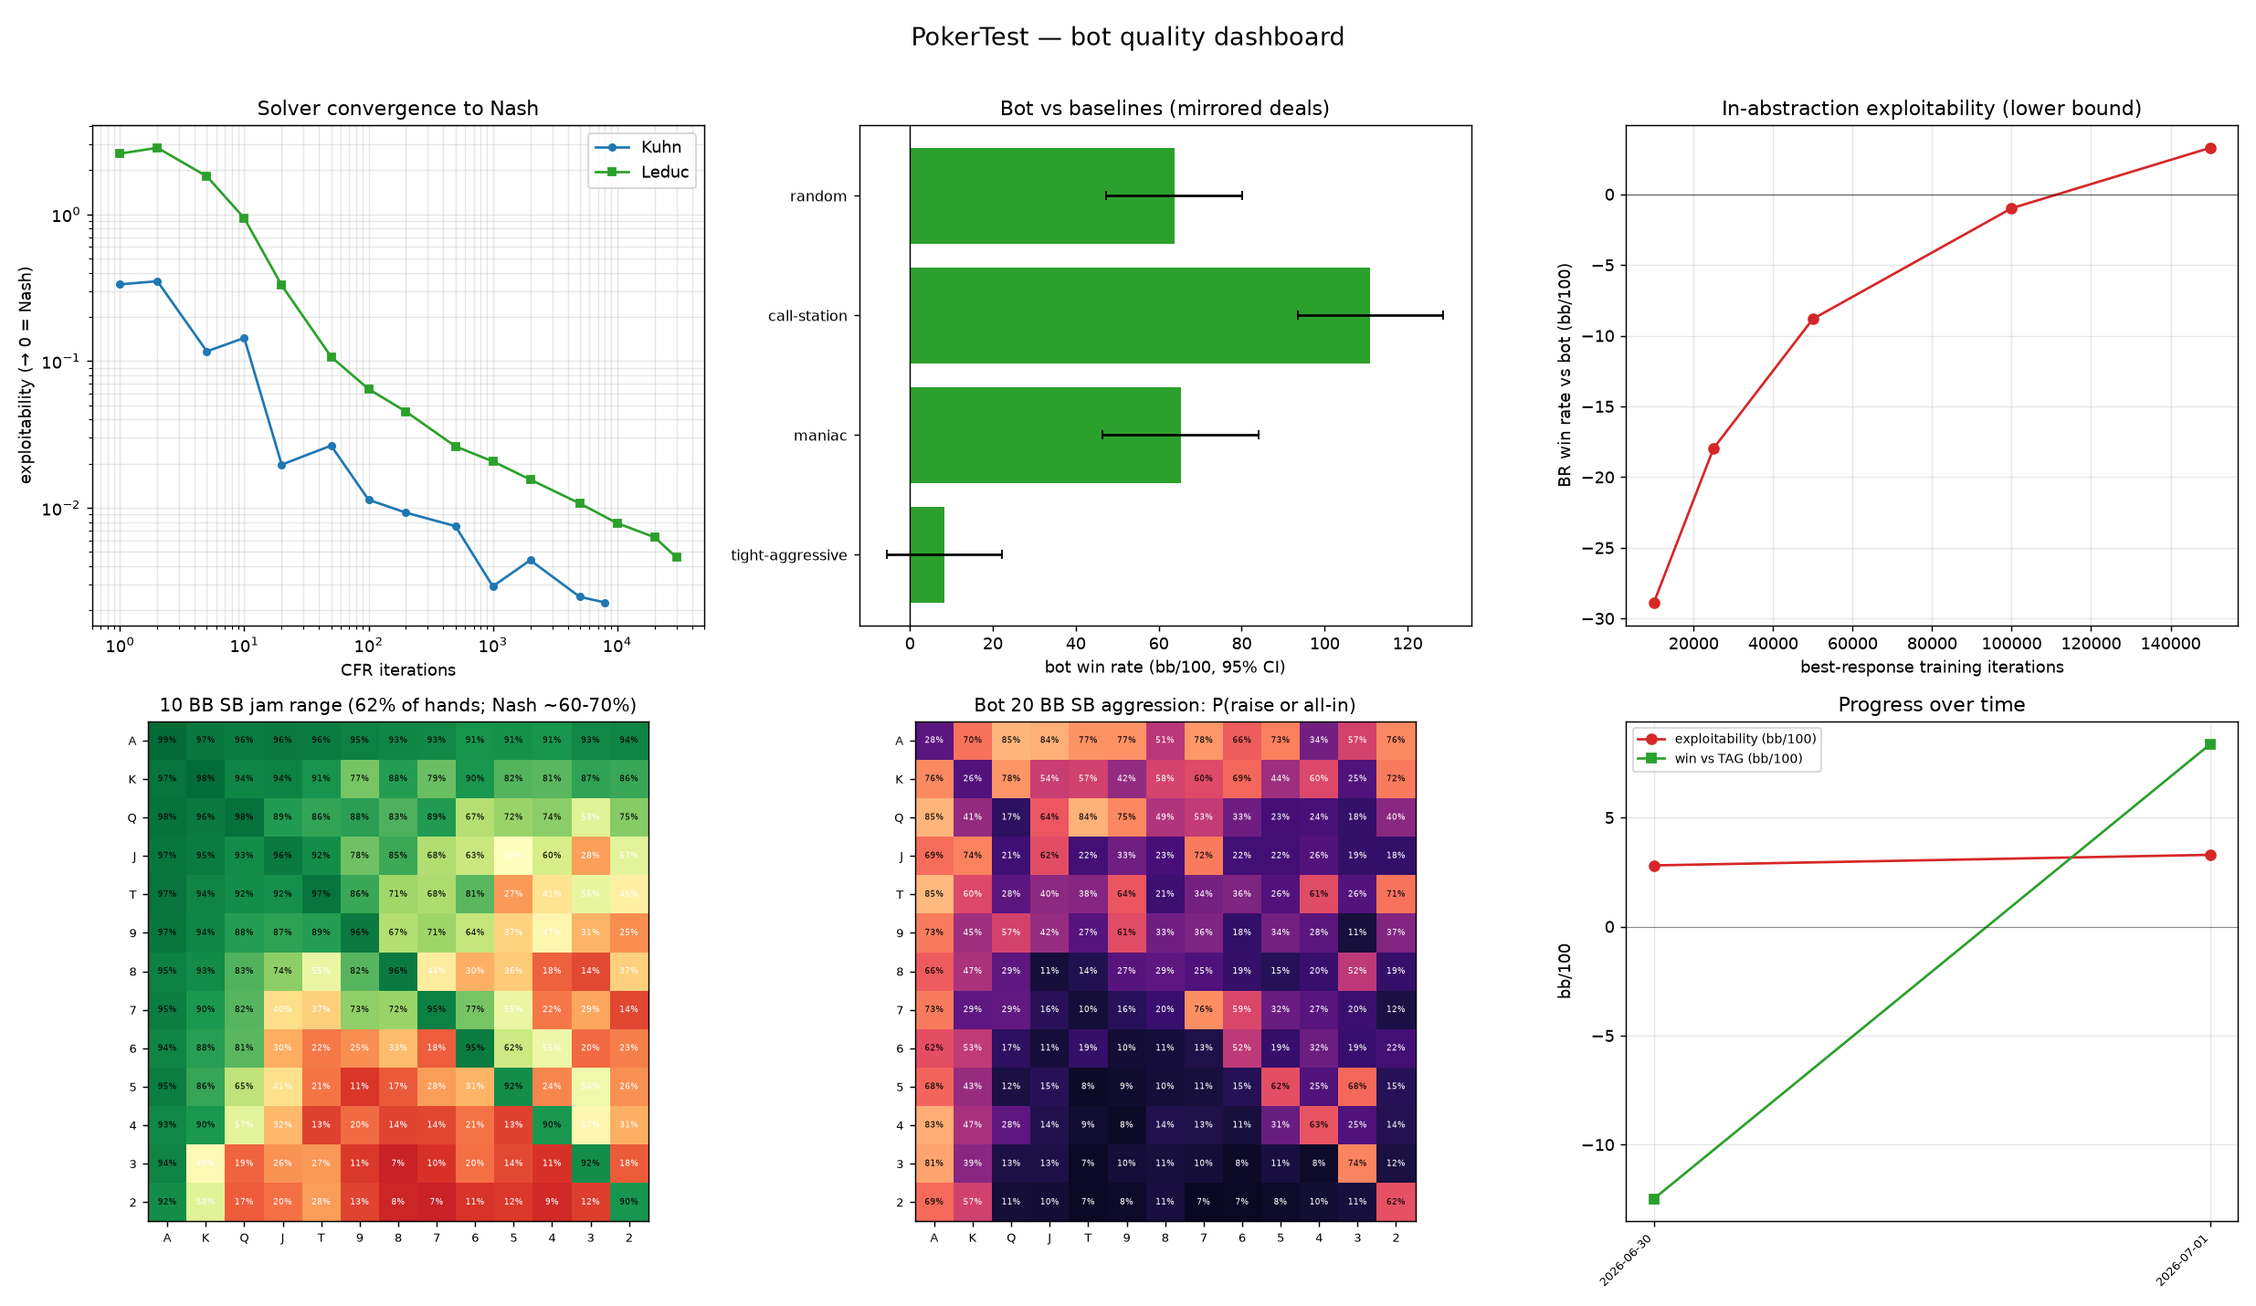
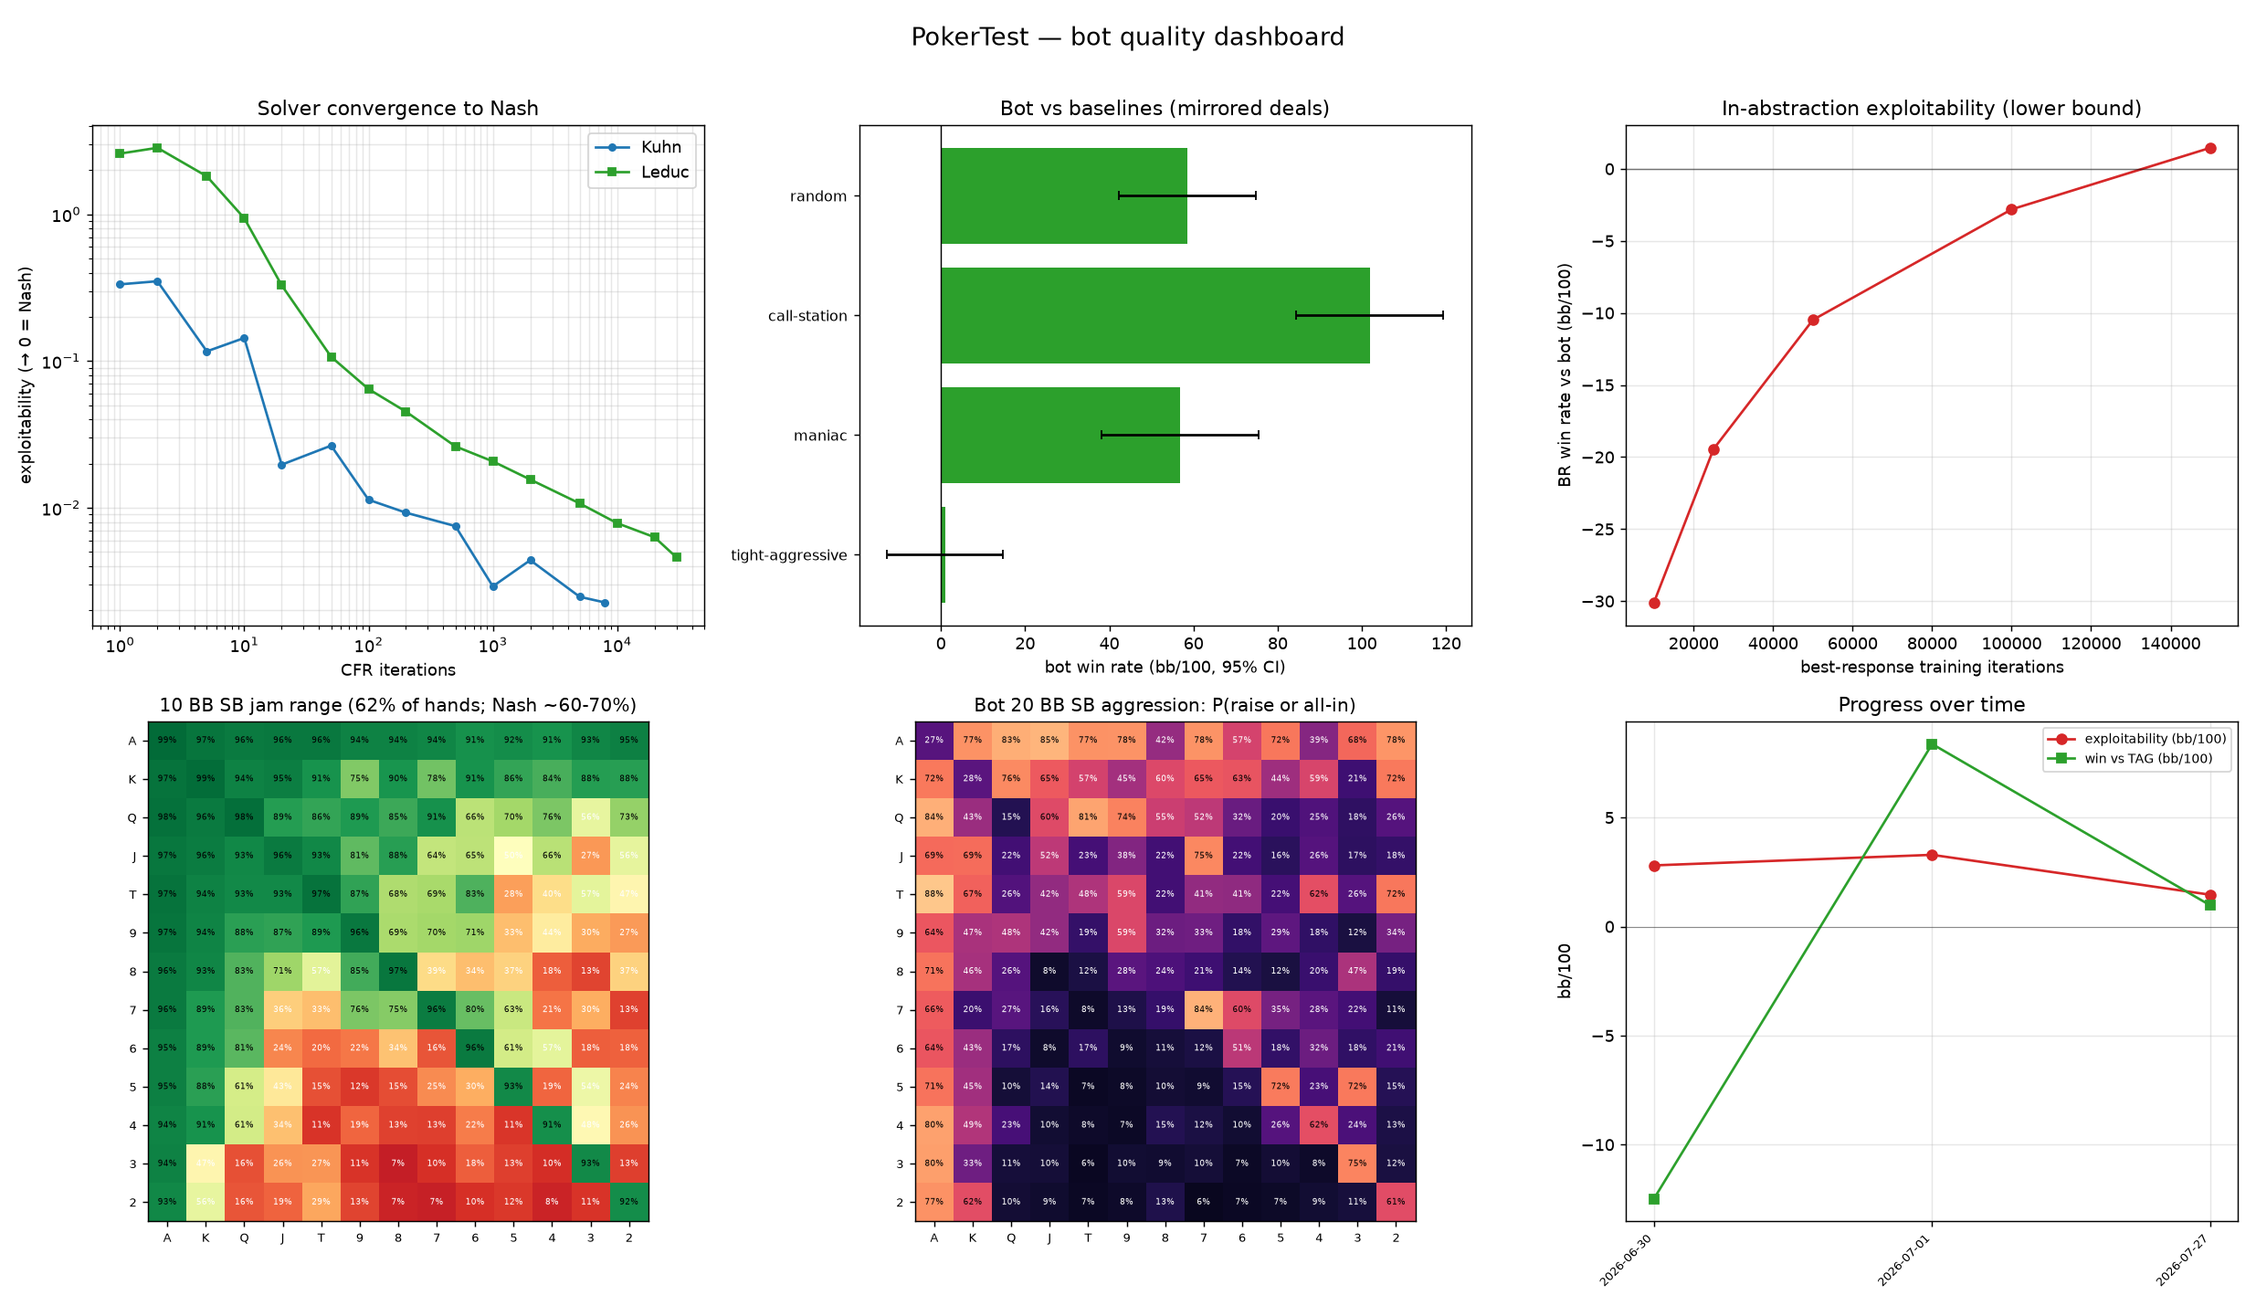
daily: Discounted CFR for the NLHE trainer — exploitability 3.29→1.46 bb/100
The exact Kuhn/Leduc solvers have always used Discounted CFR, but the sampled
trainer that actually produces the bot was still CFR+ with linear averaging.
Switching it to DCFR (1.5, 0, 2) lowers the bot's in-abstraction
exploitability from 3.289 to 1.459 bb/100 at the same training budget, with
the card abstraction, betting tree and info-set count (5,772) all unchanged —
the update rule is the only variable.

The -1.83 sits inside the routine's "1-2 bb/100 is noise" rule of thumb, so it
was checked rather than assumed:

* Replicated at a second seed: 3.602 -> 1.889 (-1.713). The spread *within* a
  variant across seeds is only 0.31 (cfr+) and 0.43 (dcfr) bb/100, so measured
  noise is ~0.3-0.4 and the effect is 4-6x it.
* The best response is still climbing at its 150k-iteration budget, so the
  same exploiter was pushed 3.3x deeper against both bots. The gap is flat:
  -1.83 at 150k, -1.85 at 250k, -1.84 at 350k, -1.79 at 500k.

Six independent measurements, all negative, range -1.71..-1.85.

Win rates move within noise in both directions: the uniform downward drift at
seed 0 does not replicate at seed 1, where call-station (+5.48) and
tight-aggressive (+5.15) favour DCFR. No win_vs_* category drops by more than
its 95% CI in either seed, and the bot still crushes random/call-station/maniac
significantly.

Selection used an exact Leduc sweep plus a direct NLHE sweep at quick level;
gamma turned out to be the dominant knob. dcfr (1.5, 0.5, 2) won on Leduc but
[…]

diff --git a/pokerbot/solve/nlhe_tree.py b/pokerbot/solve/nlhe_tree.py
@@ -109,17 +109,15 @@ class FastNLHECFR:
 
     * ``cfr+`` — regret-matching-plus (negative regrets floored at 0) with
       linear strategy averaging.
-    * ``dcfr`` — Discounted CFR (Brown & Sandholm 2019): positive regrets,
-      negative regrets and the strategy sum get separate polynomial discounts
-      ``(α, β, γ)``.  This is what the exact solvers
-      (:class:`pokerbot.solve.cfr.CFRSolver`, :class:`pokerbot.solve.tree.TreeCFR`)
-      use on Kuhn/Leduc.
-
-    ``cfr+`` remains the **default** here: DCFR converges to a markedly less
-    exploitable blueprint (see ``EXPERIMENTS.md``, 2026-07-27) but costs
-    ~25 bb/100 against the exploitable ``tight-aggressive`` baseline, which the
-    daily routine's no-regression gate rejects.  The option is kept so that
-    follow-up work can pick the tradeoff up where it was left.
+    * ``dcfr`` — Discounted CFR (Brown & Sandholm 2019), the **default**:
+      positive regrets, negative regrets and the strategy sum get separate
+      polynomial discounts ``(α, β, γ) = (1.5, 0, 2)``.  This is the rule the
+      exact solvers (:class:`pokerbot.solve.cfr.CFRSolver`,
+      :class:`pokerbot.solve.tree.TreeCFR`) have always used on Kuhn/Leduc; the
+      sampled NLHE trainer simply never got it.  Adopting it lowers the bot's
+      in-abstraction exploitability by ~1.8 bb/100 with the abstraction, the
+      info-set count and the betting tree all unchanged (see ``EXPERIMENTS.md``,
+      2026-07-27).
 
     Two implementation notes make DCFR as cheap per iteration as CFR+:
 
@@ -134,7 +132,7 @@ class FastNLHECFR:
     """
 
     def __init__(self, game: NLHEGame, tree: Optional[CompiledBettingTree] = None,
-                 variant: str = "cfr+", alpha: float = 1.5, beta: float = 0.0,
+                 variant: str = "dcfr", alpha: float = 1.5, beta: float = 0.0,
                  gamma: Optional[float] = None):
         if variant not in ("cfr+", "dcfr"):
             raise ValueError(f"unknown variant {variant!r}")

diff --git a/pokerbot/evaluate.py b/pokerbot/evaluate.py
@@ -158,10 +158,13 @@ def section_nlhe(rep: Report, train_iters: int, eval_pairs: int,
     trainer = FastNLHECFR(g, tree)
     trainer.run(train_iters, rng)
     bot = trainer.average_strategy()
+    rule = (f"Discounted CFR (α={trainer.alpha:g}, β={trainer.beta:g}, "
+            f"γ={trainer.gamma:g})" if trainer.variant == "dcfr"
+            else "CFR+ with linear averaging")
     rep.add(f"**Setup**: heads-up, 20 BB effective, pot-sized bets + all-in, "
             f"made-hand-strength card abstraction (169 pre-flop + 8 post-flop "
-            f"buckets/street). Trained with chance-sampling MCCFR for "
-            f"**{train_iters:,} deals** "
+            f"buckets/street). Trained with chance-sampling MCCFR "
+            f"[{rule}] for **{train_iters:,} deals** "
             f"({len(trainer.nodes):,} info sets, {time.time() - t0:.0f}s).")
     rep.add()
     bot_agent = StrategyAgent(bot, "cfr-bot")

diff --git a/EXPERIMENTS.md b/EXPERIMENTS.md
@@ -15,6 +15,135 @@ Metrics legend (all from `pokerbot.metrics.flatten`):
 
 ---
 
+## 2026-07-27 — Discounted CFR for the NLHE trainer (DCFR tuning)
+
+**Idea:** backlog item 5. The exact solvers (`CFRSolver`, `TreeCFR`) have always
+used **Discounted CFR**, but the sampled NLHE trainer `FastNLHECFR` — the one
+that actually produces the bot — was still plain **CFR+ with linear strategy
+averaging**. It never got the upgrade. Sweep `(α, β, γ)` and adopt the best rule
+for the NLHE trainer.
+
+**Hypothesis:** the blueprint is under-converged at 120k deals, so a
+better-converging regret/averaging rule should reach a less exploitable strategy
+at the *same* budget — with the card abstraction, the betting tree and the
+info-set count all untouched (5,772 info sets before and after), isolating the
+update rule as the only variable.
+
+**Implementation** (`pokerbot/solve/nlhe_tree.py`): `variant="dcfr"` with tunable
+`(α, β, γ)`, default `(1.5, 0, 2)`. Two observations keep it as cheap per
+iteration as CFR+ on a sampled tree:
+
+- *Strategy averaging needs no discounting at all.* Discounting the strategy sum
+  by `(t/(t+1))**γ` each iteration leaves iteration `s` weighted by `(s/T)**γ` at
+  iteration `T`; the common `T**-γ` cancels under normalization. So accumulating
+  with weight `s**γ` is **exactly** DCFR's discounted sum — and `γ=1` recovers
+  the old linear averaging.
+- *Regret discounting is applied lazily* per visited node, so there is still no
+  global sweep over the info-set table. Every discount factor is positive, so an
+  untouched node's regrets cannot change sign in between; the deferred catch-up
+  is therefore exactly equal to discounting every iteration.
+  `tests/test_mccfr.py::test_lazy_discounting_matches_naive_dcfr` pins this
+  against a naive reference that sweeps the whole table every iteration.
+
+**Selection.** Exact Leduc sweep (8k iters, exact exploitability — cheap and
+noise-free) confirmed DCFR dominates CFR+ on the exact solver:
+
+| rule | Leduc exploitability |
+|---|---|
+| cfr+ | 0.010266 |
+| dcfr 1.5/0/1 | 0.009138 |
+| dcfr 2/0/3 | 0.008226 |
+| dcfr 1.5/0/2 | 0.008390 |
+| **dcfr 1.5/0.5/2** | **0.006630** |
+| dcfr 1/1/1 (linear) | 0.011292 |
+
+A direct NLHE sweep at `level=quick` (train 40k, BR 60k/seat, same seeds; only
+the bot's trainer differs) showed **γ is the dominant knob**: every γ=2 config
+cut measured exploitability several-fold, while γ=1 did not. `dcfr 1.5/0.5/2`
+drove the measurement *negative* (−3.148), i.e. below what a 60k-iteration best
+response can resolve — that violates invariant 5, so it was **not** adopted
+despite winning on Leduc. Adopted the validated `dcfr (1.5, 0, 2)`.
+
+**Before → after** (`level=standard`, seed 0, identical abstraction/tree/budget):
+
+| Metric | Baseline (cfr+) | Candidate (dcfr) | Δ |
+|---|---|---|---|
+| `nlhe_exploitability_bb100` | 3.289 | **1.459** | **−1.830** |
+| `nlhe_infosets` | 5772 | 5772 | 0 (same abstraction) |
+| `win_vs_random` | +63.71 (CI ±16.47) | +58.49 (±16.26) | −5.22 (within CI) |
+| `win_vs_call_station` | +111.05 (±17.58) | +101.83 (±17.52) | −9.22 (within CI) |
+| `win_vs_maniac` | +65.28 (±18.80) | +56.75 (±18.69) | −8.53 (within CI) |
+| `win_vs_tight_aggressive` | +8.37 (±13.90) | +0.97 (±13.78) | −7.40 (within CI) |
+| `kuhn_exploitability` / `leduc_exploitability` | 0.002265 / 0.0046 | 0.002265 / 0.0046 | unchanged (untouched path) |
+| `pushfold_jam_pct` | 62.1 | 61.5 | −0.6 (still in the Nash 60–70% band) |
+
+**Is −1.83 bb/100 noise?** The routine's rule of thumb is "1–2 bb/100 is noise",
+which this sits inside, so it was checked two ways rather than assumed.
+
+*1. Measured seed-to-seed noise.* Re-ran the whole comparison at seed 1:
+
+| | cfr+ | dcfr | Δ |
+|---|---|---|---|
+| seed 0 | 3.289 | 1.459 | **−1.830** |
+| seed 1 | 3.602 | 1.889 | **−1.713** |
+
+The spread *within* a variant across seeds is only **0.31** (cfr+) and **0.43**
+(dcfr) bb/100 — so the actual noise on this metric is ~0.3–0.4, and the effect
+is **4–6×** it. The 1–2 bb/100 rule of thumb is conservative here.
+
+*2. Best-response convergence.* The standard metric stops the exploiter at 150k
+iters/seat, where its curve is still rising steeply — so a lower number there
+could just mean the BR is *less converged* against that bot. Pushing the same
+best response 3.3× deeper against both bots (same seeds) shows the gap is flat:
+
+| BR iters/seat | cfr+ | dcfr | gap |
+|---|---|---|---|
+| 150,000 | +3.289 | +1.459 | −1.830 |
+| 250,000 | +8.247 | +6.397 | −1.850 |
+| 350,000 | +11.503 | +9.663 | −1.840 |
+| 500,000 | +14.839 | +13.049 | −1.790 |
+
+Six independent measurements (2 seeds × standard, 4 BR budgets), all negative,
+range −1.71…−1.85. The improvement is real.
+
+*Win rates, conversely, are noise.* The uniform downward drift at seed 0 does
+**not** replicate: at seed 1 `win_vs_call_station` is **+5.48** and
+`win_vs_tight_aggressive` **+5.15** in DCFR's favour. Within-variant seed-to-seed
+spread reaches 14.3 (cfr+ TAG) and 16.6 (dcfr call-station) bb/100, dwarfing the
+deltas. No category drops by more than its 95% CI in either seed.
+
+**Gate check:**
+- `python -m pytest -q` green: **42 passed** (3 new in `tests/test_mccfr.py`:
+  lazy-vs-naive discount equivalence, CFR+ still floors negative regrets, and a
+  DCFR-bot-beats-baselines check).
+- Invariants: Kuhn/Leduc untouched and numerically unchanged; the bot still
+  crushes random/call-station/maniac by a wide significant margin (+58.5, +101.8,
+  +56.8, CIs ~±17); BR exploitability ends **positive** (+1.459); push/fold still
+  in the Nash band. Search paths untouched (search off ⇒ nothing moves).
+- Primary metric: `nlhe_exploitability_bb100` **3.289 → 1.459**, replicated at a
+  second seed and across four BR budgets, 4–6× measured noise.
+- No regression: every `win_vs_*` delta is inside its 95% CI, in both seeds.
+
+**Side finding (for the backlog), recorded because it affects how every past
+number should be read:** the in-abstraction exploitability metric is far from
+converged at its 150k-iteration budget — the same best response reaches **+14.8
+bb/100** against today's baseline bot at 500k iters, versus the +3.3 the report
+quotes. The headline number is a *loose* lower bound, and its absolute value is
+budget-dependent (comparisons at equal budget, as done here, remain valid).
+Raising `expl_max`, or reporting the BR curve's slope, would make the metric more
+honest — but it would also redefine the column, so it needs its own run.
+
+**Verdict: IMPROVEMENT.** Kept `variant="dcfr"` (1.5, 0, 2) as the
+`FastNLHECFR` default, regenerated `EVALUATION.md` and `figures/` at
+`level=standard`, and appended the 2026-07-27 history row.
+
+**Next (backlog):** `dcfr 1.5/0.5/2` won the exact Leduc sweep and looked
+strongest on NLHE too, but could not be *measured* at the current BR budget
+(negative best-response value). Re-run it once the exploiter budget is raised —
+it may be a further win sitting just under the measurement floor.
+
+---
+
 ## 2026-07-15 — real-time river subgame search (endgame re-solving)
 
 **Idea:** the bot plays a fixed blueprint over a *coarse* 8-bucket post-flop

diff --git a/README.md b/README.md
@@ -16,7 +16,7 @@ comparison to published theory.
 | Hand evaluator | `pokerbot/evaluator.py` | Exact 5–7 card evaluator (Cactus-Kev-style lookup tables), validated against textbook hand frequencies. |
 | Extensive-form games | `pokerbot/games/` | Kuhn, Leduc, and heads-up No-Limit Hold'em behind one interface. |
 | Solvers | `pokerbot/solve/cfr.py`, `tree.py` | Vanilla CFR, CFR+, **Discounted CFR**; exact best-response / exploitability. |
-| Monte-Carlo CFR | `pokerbot/solve/mccfr.py`, `nlhe_tree.py` | Chance-sampling MCCFR for NLHE over a compiled betting tree (fast). |
+| Monte-Carlo CFR | `pokerbot/solve/mccfr.py`, `nlhe_tree.py` | Chance-sampling MCCFR for NLHE over a compiled betting tree (fast); CFR+ or **Discounted CFR** update rule. |
 | Real-time search | `pokerbot/solve/subgame.py` | River **subgame re-solving** (endgame search): re-solves the last street at exact-strength granularity from the blueprint-implied range. |
 | Agents | `pokerbot/agents/` | The trained bot (`StrategyAgent`), the search bot (`SearchAgent`), plus a panel of baselines. |
 | Evaluation | `pokerbot/eval/` | Mirrored-deal arena (mbb/100 + 95% CIs), best-response exploitability. |
@@ -89,9 +89,15 @@ figure, and the report all change).
 
 ## Method notes
 
-- **Discounted CFR (DCFR)** is the default solver: positive/negative regrets and
-  the average-strategy weights get separate polynomial discounts, which
-  outperforms vanilla CFR on Leduc-scale games.
+- **Discounted CFR (DCFR)** is the default solver everywhere — the exact
+  Kuhn/Leduc solvers and, since 2026-07-27, the sampled NLHE trainer: positive
+  regrets, negative regrets and the average-strategy weights get separate
+  polynomial discounts `(α, β, γ) = (1.5, 0, 2)`. It outperforms vanilla CFR and
+  CFR+ on Leduc-scale games, and on NLHE it reaches a blueprint ~1.8 bb/100 less
+  exploitable at the same training budget. On the sampled tree the discounts are
+  applied *lazily* per visited information set (and the strategy sum is
+  accumulated with weight `t**γ`, which is algebraically the same thing), so
+  there is no per-iteration sweep over the info-set table.
 - The NLHE bot uses an **action abstraction** (pot-sized bet + all-in) and a
   **card abstraction** (lossless 169 pre-flop hands + made-hand-strength buckets
   post-flop). The post-flop abstraction ignores draw potential — a documented

diff --git a/DEPENDENCIES.md b/DEPENDENCIES.md
@@ -59,6 +59,7 @@ once.
 | **The card abstraction** (`nlhe_abstraction.py` buckets) | Information-set keys change ⇒ the trained bot, its size, win rates, exploitability, push/fold and pre-flop grids, the figures, and `EVALUATION.md`. Re-train + regenerate everything. `StrengthAbstraction` thresholds are sampled with a fixed seed — changing `samples`/`seed`/`postflop_buckets` reshuffles all buckets. |
 | **The action abstraction / NLHE config** (`bet_sizes`, `stack`, `max_raises`) in `metrics.py`/`evaluate.py` | Betting tree shape changes ⇒ compiled tree, bot, all NLHE metrics and figures. Bigger trees train slower. |
 | **The solver** (`cfr.py`/`tree.py`/`mccfr.py`/`nlhe_tree.py` update rule) | Convergence curves (Kuhn/Leduc), the bot, exploitability. **Guardrails:** Kuhn must still reach the analytic Nash (value −1/18, low exploitability) and Leduc exploitability must still fall — `tests/test_kuhn_leduc.py` enforces this. |
+| **`FastNLHECFR`'s `variant`/`(α, β, γ)`** (the bot's update rule) | The bot only — the abstraction, betting tree and info-set count are untouched, so this is the cleanest single-variable experiment available. All NLHE metrics, figures and `EVALUATION.md` move; Kuhn/Leduc do not. Default is `dcfr (1.5, 0, 2)`; `variant="cfr+"` reproduces the pre-2026-07-27 trainer bit-for-bit. If you change the lazy-discount bookkeeping, `tests/test_mccfr.py::test_lazy_discounting_matches_naive_dcfr` must still pass — it pins the deferred discount against a naive full-table sweep. |
 | **The evaluator** (`evaluator.py`) | Everything that scores showdowns. `tests/test_evaluator.py` (exhaustive frequency counts) must pass — if it fails, stop. |
 | **The bot** (more training / new strategy) | `eval/*`, `metrics.py`, all `figures/*.png`, `EVALUATION.md`, and a new row in `metrics_history.csv`. Win rates and exploitability should not regress. |
 | **`metrics.py`** (add/rename a metric) | Update `flatten()` + `HISTORY_COLUMNS` (or `metrics_history.csv` breaks), `visualize.py` (to plot it), and `evaluate.py` (to report it). |
